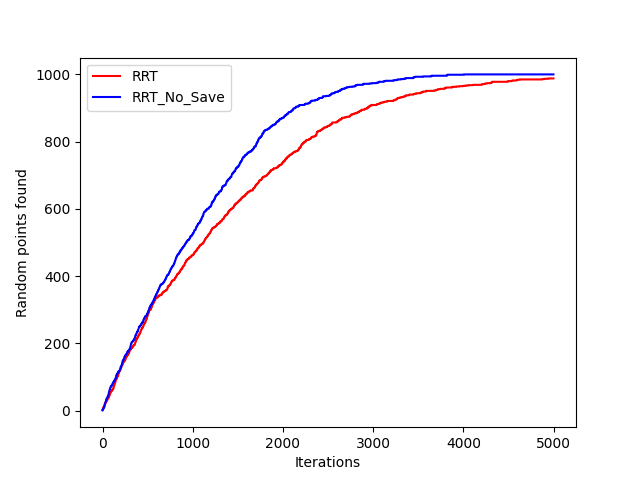
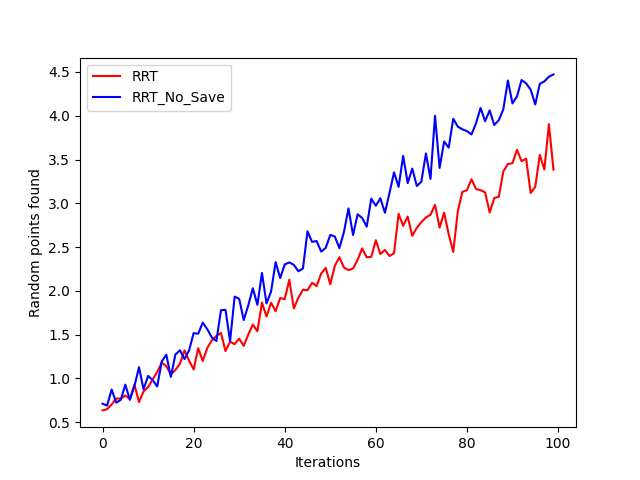
Implemented no save

diff --git a/rrt_no_goal.py b/rrt_no_goal.py
@@ -28,6 +28,10 @@ class Artists:
         ax.add_collection(self.obs_solid_lines)
         self.artist_list.append(self.obs_solid_lines)
 
+        self.resteer_solid_lines = LineCollection([], lw=2, animated=True, color='blue', zorder=3)
+        ax.add_collection(self.resteer_solid_lines)
+        self.artist_list.append(self.resteer_solid_lines)
+
         self.path_to_goal_lines = LineCollection([], lw=2, animated=True, color='blue', zorder=1)
         ax.add_collection(self.path_to_goal_lines)
         self.artist_list.append(self.path_to_goal_lines)
@@ -61,6 +65,15 @@ class Artists:
         verts = [(new_pt.pos[0], new_pt.pos[1]), (old_pt.pos[0], old_pt.pos[1])]
         obs_solid_paths = self.obs_solid_lines.get_paths()
         obs_solid_paths.append(Path(verts, codes))
+    
+    def update_resteer_solid_lines(self, old_pt, new_pt):
+        codes = [Path.MOVETO, Path.LINETO]
+        verts = [(new_pt[0], new_pt[1]), (old_pt[0], old_pt[1])]
+        resteer_solid_paths = self.resteer_solid_lines.get_paths()
+        resteer_solid_paths.append(Path(verts, codes))
+    
+    def clear_resteer_solid_lines(self):
+        self.resteer_solid_lines.get_paths().clear()
 
     def update_circles(self, obstacles):
         for obs in obstacles:
@@ -78,13 +91,14 @@ class Artists:
 
 
 class TreeNode:
-    def __init__(self, pos, parent):
+    def __init__(self, pos, parent, cmd_from_parent=None):
         self.pos = pos
         self.parent = parent
         self.children = []
         self.cost = 0
         self.path_cost = 0
         self.total_cost = 0
+        self.cmd_from_parent = cmd_from_parent
 
 
 class RRT:
@@ -105,6 +119,7 @@ class RRT:
         self.time_taken = 0
         self.root = TreeNode(self.start, None)
         self.normal_distribution_array = []
+        self.current_node = None
 
         self.fig = plt.figure()
         self.ax = plt.axes(xlim=(0, 1), ylim=(0, 1))
@@ -120,6 +135,10 @@ class RRT:
         self.test_points = test_points
         self.cnt = 0
         self.test_points_found_count = []
+        self.mc_integrate_results = []
+
+        self.actual_iterations_count = 0
+        self.actual_iterations_lst = []
         print(self.filename)
 
     def get_random_point(self):
@@ -153,11 +172,13 @@ class RRT:
 
         theta = np.arctan2(to_node[1] - from_node.pos[1], to_node[0] - from_node.pos[0])
         dist = np.linalg.norm(to_node - from_node.pos)
+        cmd_from_parent = np.array([theta, dist])
+        self.actual_iterations_count += 1
 
         if dist < self.step_size:
-            new_node = TreeNode(to_node, from_node)
+            new_node = TreeNode(to_node, from_node, cmd_from_parent)
         else:
-            new_node = TreeNode(from_node.pos + self.step_size * np.array([np.cos(theta), np.sin(theta)]), from_node)
+            new_node = TreeNode(from_node.pos + self.step_size * np.array([np.cos(theta), np.sin(theta)]), from_node, cmd_from_parent)
 
         if self.collision_check(new_node):
             from_node.children.append(new_node)
@@ -178,9 +199,35 @@ class RRT:
         'iterate RRT algorithm'
         random_pt = self.get_random_point()
         nearest_node = self.get_nearest_node(random_pt)
+        if nearest_node is not self.current_node:
+            self.steerFromRoot(nearest_node)
         new_node = self.steer(nearest_node, random_pt)
+        self.current_node = new_node
         self.update_coverages(new_node)
         return random_pt, nearest_node, new_node
+
+    def steerFromRoot(self, node):
+        '''Find the commands from root recursively that created this node and use those commands to steer to this node'''
+        cmd_lst = []
+        while node is not self.root:
+            cmd_lst.append(node.cmd_from_parent)
+            node = node.parent
+        
+        current_pos = self.root.pos
+        for i in range(len(cmd_lst) - 1, -1, -1):
+            self.actual_iterations_count += 1
+            old_pos = current_pos
+            theta = cmd_lst[i][0]
+            dist = cmd_lst[i][1]
+            if dist < self.step_size:
+                current_pos = current_pos + (dist * np.array([np.cos(theta), np.sin(theta)]))
+            else:
+                current_pos = current_pos + (self.step_size * np.array([np.cos(theta), np.sin(theta)]))
+            self.artists.update_resteer_solid_lines(old_pos, current_pos)
+            
+
+
+
 
     def update_path(self, new_node):
         self.path_found = True
@@ -211,8 +258,9 @@ class RRT:
     def animate(self, i):
         'animation function'
         if not self.path_found:
+            self.artists.clear_resteer_solid_lines()
             random_pt, nearest_node, new_node = self.iterate()
-            print('iteration: ', i, 'test_pts found: ', self.cnt)
+            print('iteration: ', i, 'test_pts found: ', self.cnt, 'actual_iterations: ', self.actual_iterations_count)
             self.artists.update_rand_pt_marker(random_pt)
             if new_node and nearest_node:
                 self.artists.update_obs_solid_lines(nearest_node, new_node)
@@ -223,16 +271,20 @@ class RRT:
         # plot root point (not animated)
         self.ax.plot([self.root.pos[0]], [self.root.pos[1]], 'ko', ms=5)
         self.start_time = time.time()
-        for i in range(self.max_iter):
-            self.animate(i)
-        # self.anim = animation.FuncAnimation(self.fig, self.animate, frames=self.max_iter,interval=1, blit=True)
+        # for i in range(self.max_iter):
+        #     self.animate(i)
+        self.anim = animation.FuncAnimation(self.fig, self.animate, frames=self.max_iter,interval=1, blit=True)
+        plt.show()
         # self.anim.save(self.filename, writer=animation.FFMpegWriter(fps=30))        
+
+    def plot_results_area(self, ax, color='r-'):
+        'plot results'
+        ax.plot(np.arange(0, len(self.actual_iterations_lst)), self.mc_integrate_results, color)
 
     def plot_results(self, ax, color='r-'):
         'plot results'
-
-        ax.plot(np.arange(0, self.max_iter), self.test_points_found_count, color)
-
+        ax.plot(np.arange(0, len(self.actual_iterations_lst)), self.actual_iterations_lst, color)
+    
     def update_coverages(self, new_node):
         if new_node:
             if self.goal:
@@ -249,19 +301,45 @@ class RRT:
                         tmp.append(pt)
                 self.test_points = tmp
                 self.test_points_found_count.append(self.cnt)
-                variance = np.identity(len(new_node.pos))
+                variance = 0.01*np.identity(len(new_node.pos))
                 self.normal_distribution_array.append(self.create_normal_distribution(new_node.pos, variance))
-                print("AREA UNDER THE CURVE: ", integrate.dblquad(self.max_value_normal_distribution_function, 0, 1, lambda x: 0, lambda x: 1))
+
+                m = time.time()
+
+                self.count = 0
+                # print("AREA UNDER THE CURVE using scipy integrate: ", integrate.dblquad(self.max_value_normal_distribution_function, 0, 1, lambda x: 0, lambda x: 1), "time taken: ", time.time() - m)
+                # res = self.mc_integrate(self.max_value_normal_distribution_function,0,1,2)
+                # print("mc_integrate", res)
+                # self.mc_integrate_results.append(res)
+        self.actual_iterations_lst.append(self.actual_iterations_count)
+
 
     def max_value_normal_distribution_function(self, y, x):
-        val = -np.inf
+        val = 0.0
         for distribution in self.normal_distribution_array:
             val = max(val, distribution.pdf((x,y)))
+        self.count+=1
         return val
 
     def create_normal_distribution(self, mean, std):
         'create normal distribution'
         return stats.multivariate_normal(mean, std)
+    
+    def mc_integrate(self,func, a, b, dim, n = 1000):
+        # Monte Carlo integration of given function over domain from a to b (for each parameter)
+        # dim: dimensions of function
+        
+        x_list = np.random.uniform(a, b, (n, dim))
+        sm=0
+        for i in x_list:
+            sm+=func(i[1],i[0])
+        
+        y_mean =  sm/n
+        domain = np.power(b-a, dim)
+        
+        integ = domain * y_mean
+        
+        return integ
 
 
 class RRT_Opt(RRT):
@@ -276,6 +354,7 @@ class RRT_Opt(RRT):
                                                                                       self.current_rand_pt) < self.tolerance / 3:
             self.current_rand_pt = self.get_random_point()
             self.current_node = self.get_nearest_node(self.current_rand_pt)
+            self.steerFromRoot(self.current_node)
         self.old_node = self.current_node
         self.current_node = self.steer(self.current_node, self.current_rand_pt)
         self.update_coverages(self.current_node)
@@ -303,7 +382,7 @@ def collision_check(node, obstacle_list):
 
 
 if __name__ == '__main__':
-    search_space = np.array([[0, 1], [0, 1]])
+    search_space = np.array([[0, 1], [0, 1], [0, 1]])
     # obstacles = [(0.1, 0.2), (0.2, 0.3), (0.3, 0.4),(0.4, 0.5),[0.5,0.6],[0.6,0.7],[0.7,0.8],[0.8,0.9], (0.9,0.1),(0.8,0.2),(0.7,0.3),(0.6,0.4),(0.5,0.5),(0.4,0.6),(0.3,0.7),(0.2,0.8),(0.1,0.9)]
     obstacles = []
     path_found_rrt = []
@@ -316,10 +395,11 @@ if __name__ == '__main__':
     time_taken_rrt_opt = []
     total_nodes_rrt_opt = []
     test_points = []
+    d = 3
     for i in range(1000):
         test_points.append(generate_random_point(search_space))
 
-    for test in range(10):
+    for test in range(2):
         start = generate_random_point(search_space)
         goal = generate_random_point(search_space)
         while not collision_check(start, obstacles):
@@ -329,18 +409,25 @@ if __name__ == '__main__':
             print('goal in collision')
             goal = generate_random_point(search_space)
         print('Distance between start and goal ', np.linalg.norm(start - goal))
-        rrtsearch = RRT(start, None, [], search_space, 0.01, 5000, 0.03, 'cache/rrt_' + str(test) + '.gif', test_points)
+        rrtsearch = RRT(start, None, [], search_space, 0.01, 3000, 0.03, 'cache/rrt_' + str(test) + '.gif', test_points)
         rrtsearch.run()
 
-        rrtsearch2 = RRT_Opt(start, None, [], search_space, 0.01, 5000, 0.03, 'cache/rrt_opt_' + str(test) + '.gif',
+        rrtsearch2 = RRT_Opt(start, None, [], search_space, 0.01, 3000, 0.03, 'cache/rrt_opt_' + str(test) + '.gif',
                              test_points)
         rrtsearch2.run()
 
-        fig = plt.figure()
-        ax = plt.axes()
-        ax.set_xlabel('Iterations')
-        ax.set_ylabel('Random points found')
+        fig, ax = plt.subplots()
+
+        ax.set_xlabel('Nodes found')
+        ax.set_ylabel('Total Simulation Time')
         rrtsearch.plot_results(ax, 'r-')
         rrtsearch2.plot_results(ax, 'b-')
         ax.legend(['RRT', 'RRT_No_Save'])
-        plt.savefig('cache/rrt_' + str(test) + '.png')
+
+        # ax1 = plt.subplot(212)
+        # ax1.set_xlabel('Iterations')
+        # ax1.set_ylabel('Area under the curve')
+        # # rrtsearch.plot_results_area(ax1, 'r-')
+        # # rrtsearch2.plot_results_area(ax1, 'b-')
+        # ax1.legend(['RRT', 'RRT_No_Save'])
+        fig.savefig('cache/rrt_' + str(test) + '.png')

diff --git a/test.py b/test.py
@@ -1,41 +1,31 @@
-import time
-
-import matplotlib.pyplot as plt
 import numpy as np
-import scipy.stats as stats
-from scipy import integrate
-import math
-mu = 0
-variance = 0.1
-def normal_distribution_function(x):
-    value = -np.inf
-    for i in range(0,10,3):
-        value = max(value, stats.norm.pdf(x,i*0.1,variance))
-    return value
 
-sigma = math.sqrt(variance)
-l=0
-r=1
-x = np.linspace(l, r, 1000)
-m = time.time()
-res = integrate.quad(normal_distribution_function, l, r)
-print(time.time()-m)
-print("RESULT",res)
-y = []
-for i in x:
-    y.append(normal_distribution_function(i))
-m = time.time()
-tmp = []
-for i in range(0,1000):
-    tmp.append(stats.norm(i, variance))
-print(time.time()-m)
-m = time.time()
-for i in range(0,1000):
-    t = tmp[i].pdf(i)
-print(time.time()-m)
-m = time.time()
-for i in range(0,1000):
-    t = i*i
-print(time.time()-m)
-plt.plot(x, y)
-plt.show()
+def func1(x):
+    # function f(x)= 10 + sum_i(-x_i^2)
+    # for 2D: f(x)= 10 - x1^2 - x2^2
+    return 10 + np.sum(-1*np.power(x, 2), axis=1)
+  
+def mc_integrate(func, a, b, dim, n = 1000):
+    # Monte Carlo integration of given function over domain from a to b (for each parameter)
+    # dim: dimensions of function
+    
+    x_list = np.random.uniform(a, b, (n, dim))
+    print(x_list)
+    y = func(x_list)
+    print(y)
+    
+    y_mean =  y.sum()/len(y)
+    domain = np.power(b-a, dim)
+    
+    integ = domain * y_mean
+    
+    return integ
+
+# Examples
+print("For f(x)= 10 - x1\u00b2 - x2\u00b2, integrated from -2 to 2 (for all x's)")
+print(f"Monte Carlo solution for : {mc_integrate(func1, -2, 2, 2, 1000000): .3f}")
+print(f"Analytical solution: 117.333")
+
+print("For f(x)= 10 - x1\u00b2 - x2\u00b2 - x3\u00b2, integrated from -2 to 2 (for all x's)")
+print(f"Monte Carlo solution: {mc_integrate(func1, -2, 2, 3, 1000000): .3f}")
+print(f"Analytical solution: 384.000")
